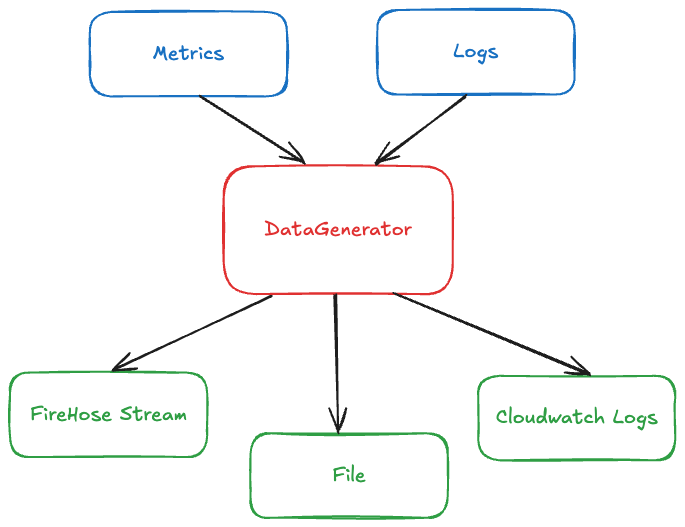
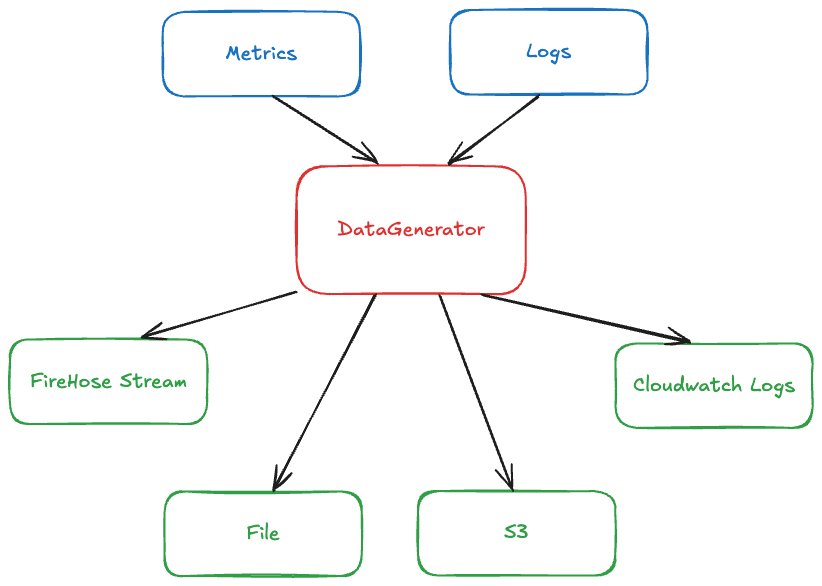
add s3 upload support

diff --git a/exporters/s3Bucket.go b/exporters/s3Bucket.go
@@ -1,0 +1,89 @@
+package exporters
+
+import (
+	"context"
+	"data-gen/conf"
+	"fmt"
+	"github.com/aws/aws-sdk-go-v2/config"
+	"github.com/aws/aws-sdk-go-v2/service/s3"
+	"log/slog"
+	"strings"
+	"time"
+)
+
+const objPrefix = "logFile-"
+const defaultBucketingPeriod = 2 * time.Minute
+
+type S3BucketExporter struct {
+	bucketName string
+	timePeriod time.Duration
+	client     *s3.Client
+	shChan     chan struct{}
+}
+
+func NewS3BucketExporter(ctx context.Context, awsConfig conf.AWSCfg) (*S3BucketExporter, error) {
+	if awsConfig.S3Bucket == "" {
+		return nil, fmt.Errorf("s3 Bucket Name is empty, please configure and try again")
+	}
+
+	loadedAwsConfig, err := config.LoadDefaultConfig(ctx, config.WithSharedConfigProfile(awsConfig.Profile), config.WithRegion(awsConfig.Region))
+	if err != nil {
+		return nil, fmt.Errorf("failed to load default aws config: %w", err)
+	}
+
+	client := s3.NewFromConfig(loadedAwsConfig)
+
+	var bucketing = defaultBucketingPeriod
+	if awsConfig.BucketPeriodSeconds != 0 {
+		bucketing = time.Duration(awsConfig.BucketPeriodSeconds) * time.Second
+	}
+
+	return &S3BucketExporter{
+		bucketName: awsConfig.S3Bucket,
+		timePeriod: bucketing,
+		client:     client,
+		shChan:     make(chan struct{}),
+	}, nil
+}
+
+func (s *S3BucketExporter) Start(c <-chan []byte, errChan chan error) {
+	go func() {
+		lastStart := time.Now()
+		sb := strings.Builder{}
+		for {
+			select {
+			case d := <-c:
+				sb.Write(d)
+				sb.WriteByte('\n')
+
+				if time.Since(lastStart) > s.timePeriod {
+					// upload to S3
+					key := fmt.Sprintf("%s%s", objPrefix, time.Now().Format("2006-01-02_15-04-05"))
+
+					input := s3.PutObjectInput{
+						Bucket: &s.bucketName,
+						Key:    &key,
+						Body:   strings.NewReader(sb.String()),
+					}
+
+					_, err := s.client.PutObject(context.Background(), &input)
+					if err != nil {
+						errChan <- fmt.Errorf("unable to upload to S3 bucket  %s: %w", s.bucketName, err)
+						return
+					}
+
+					// reset all
+					lastStart = time.Now()
+					sb.Reset()
+				}
+			case <-s.shChan:
+				slog.Info("shutting down S3 exporter")
+				return
+			}
+		}
+	}()
+}
+
+func (s *S3BucketExporter) Stop() {
+	close(s.shChan)
+}

diff --git a/conf/config.go b/conf/config.go
@@ -10,6 +10,7 @@ const (
 	OutFirehose       = "FIREHOSE"
 	OutFile           = "FILE"
 	OutCloudwatchLogs = "CLOUDWATCH_LOG"
+	OutS3Bucket       = "S3"
 	TypeLogs          = "LOGS"
 	TypeMetrics       = "METRICS"
 
@@ -30,6 +31,8 @@ type Cfg struct {
 type AWSCfg struct {
 	Profile                 string `yaml:"profile"`
 	Region                  string `yaml:"region"`
+	S3Bucket                string `yaml:"s3Bucket"`
+	BucketPeriodSeconds     int    `yaml:"bucketSeconds"`
 	FirehoseStreamName      string `yaml:"firehoseStreamName"`
 	CloudwatchLogGroup      string `yaml:"cloudwatchLogGroup"`
 	CloudwatchLogStreamName string `yaml:"cloudwatchLogStreamName"`

diff --git a/main.go b/main.go
@@ -91,6 +91,8 @@ func makeExporter(ctx context.Context, cfg *conf.Cfg) (exporters.IExport, error)
 		return exporters.NewFirehoseExporter(ctx, cfg.AWSCfg)
 	case conf.OutCloudwatchLogs:
 		return exporters.NewCloudWatchLogExporter(ctx, cfg.AWSCfg)
+	case conf.OutS3Bucket:
+		return exporters.NewS3BucketExporter(ctx, cfg.AWSCfg)
 	default:
 		return nil, fmt.Errorf("unknown exporter output: %s", cfg.Output)
 	}
